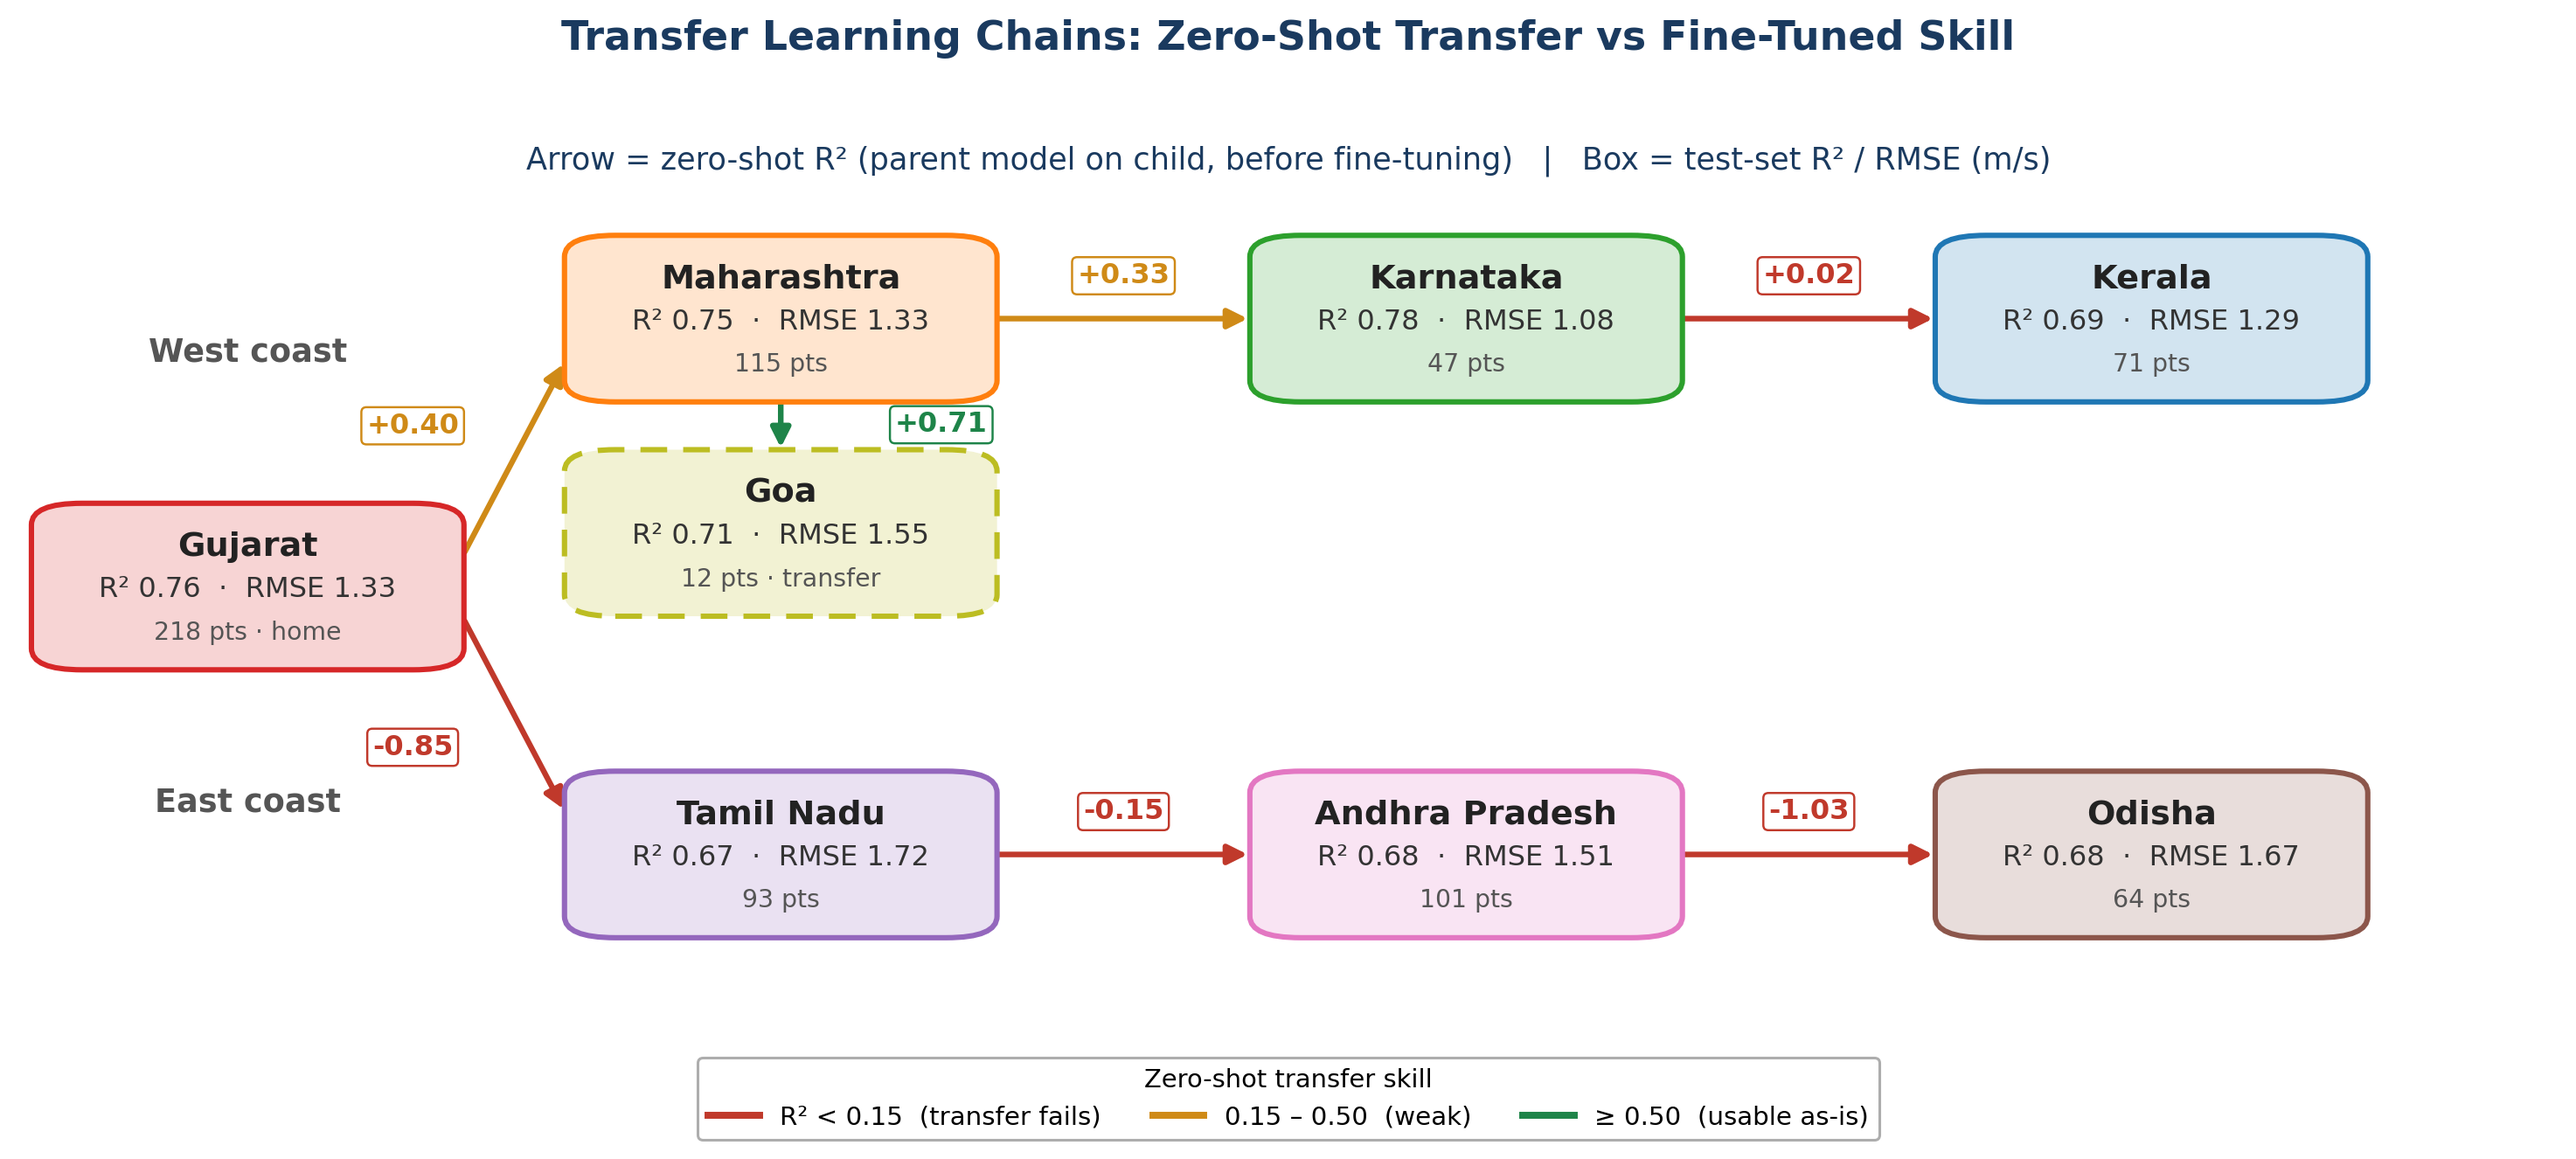
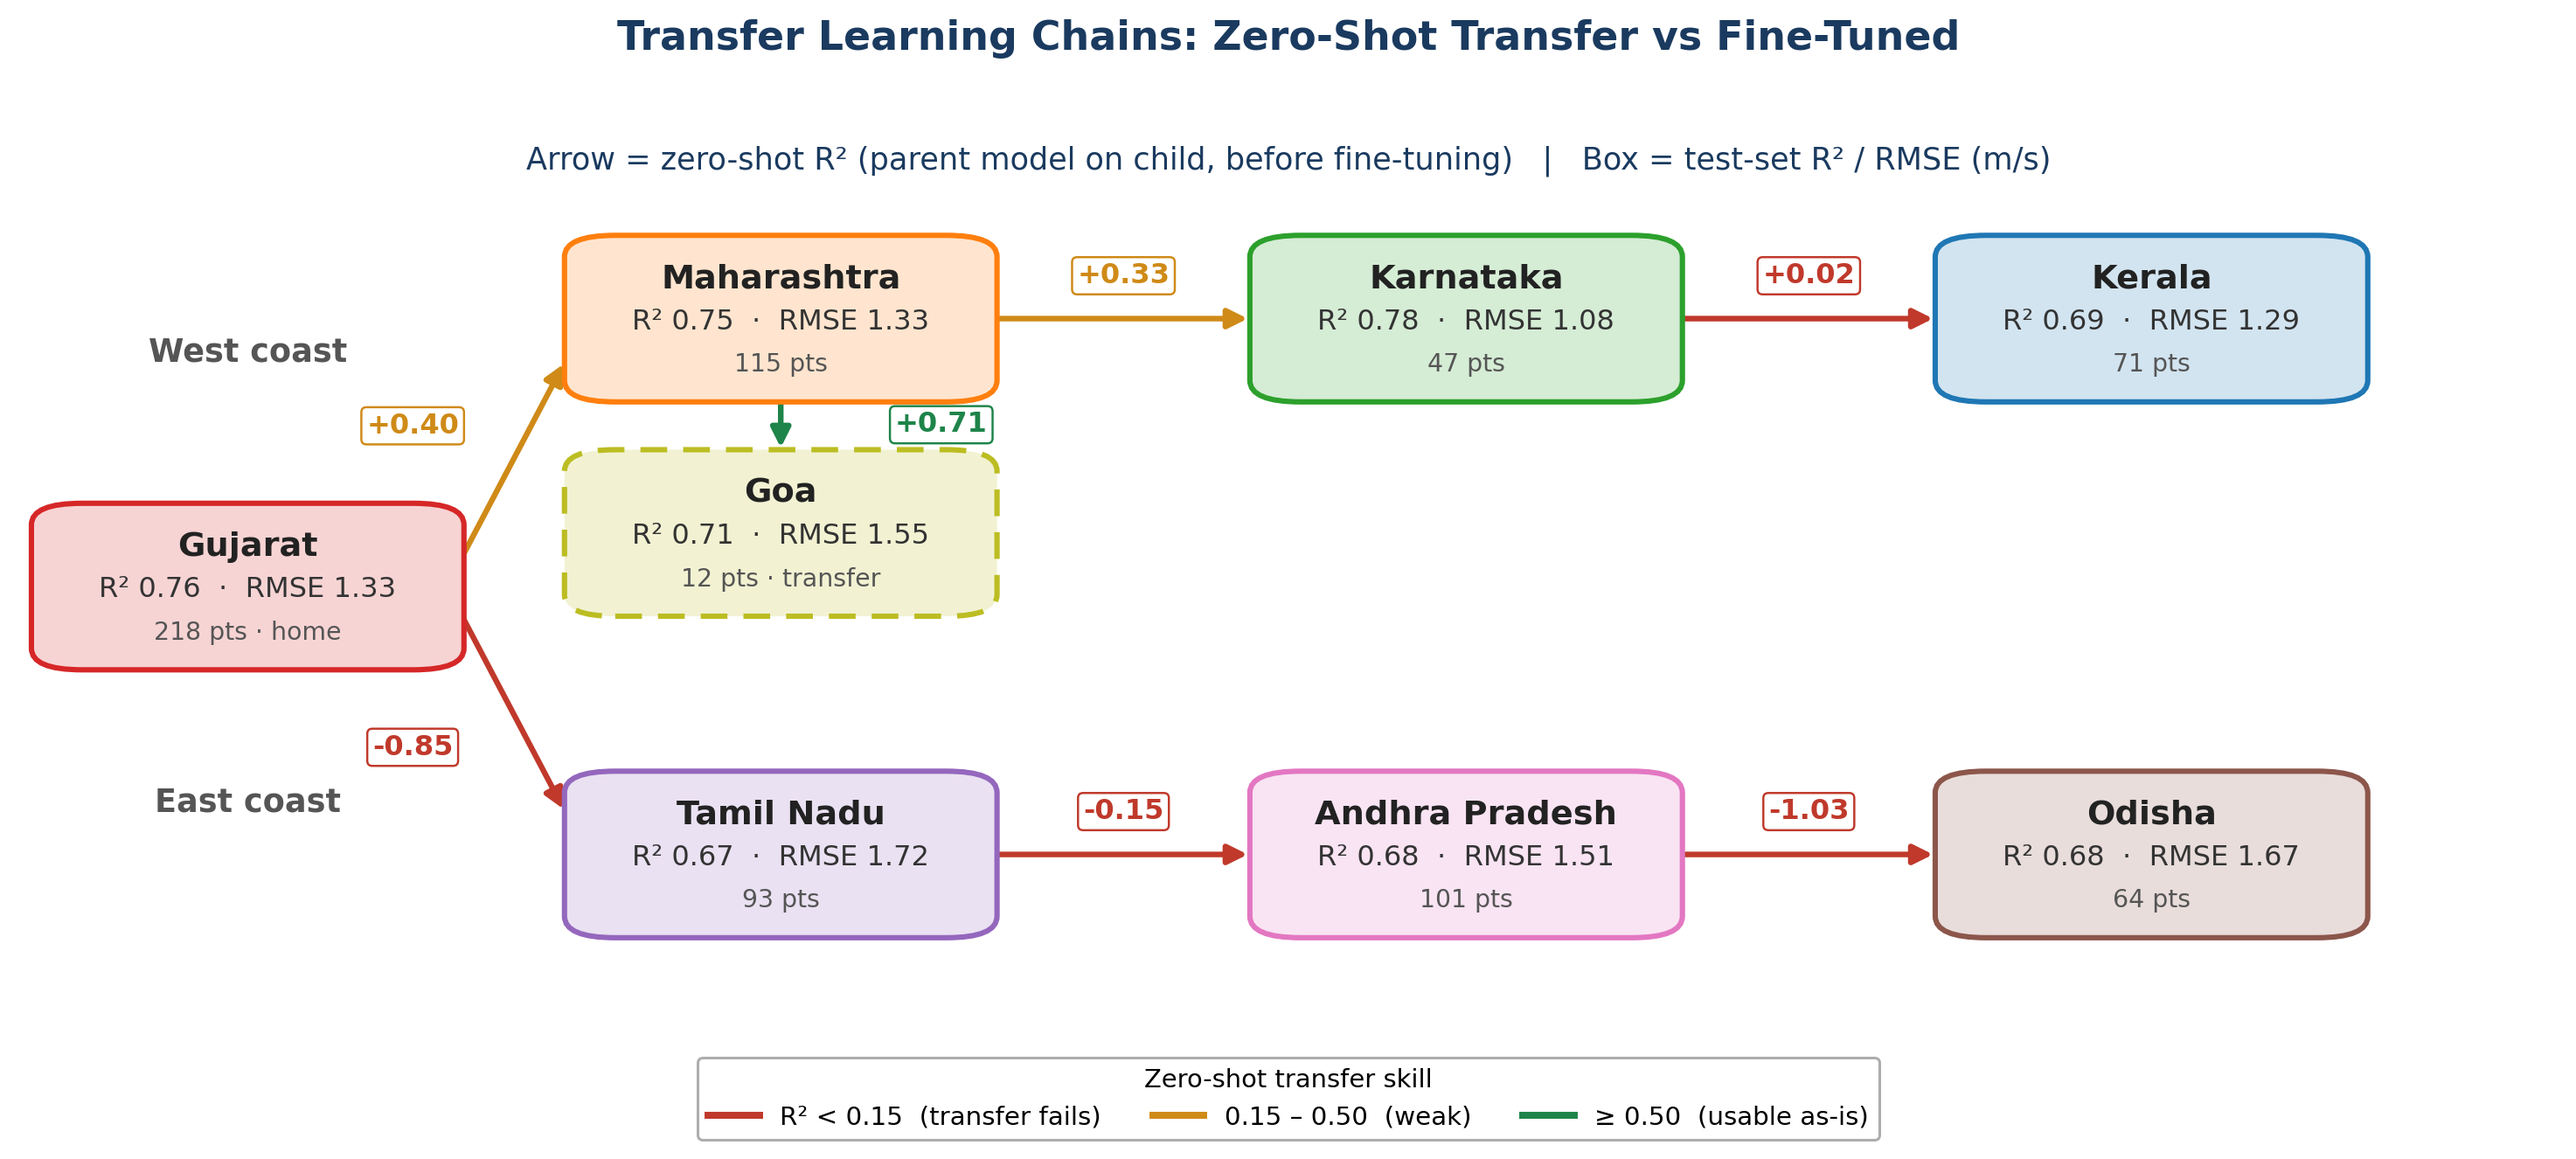
figures

Changed region(s): [[0.2185, 0.0, 0.7805, 0.0618]]

diff --git a/scripts/ml/generate_fig3_transfer_chains.py b/scripts/ml/generate_fig3_transfer_chains.py
@@ -51,7 +51,7 @@ arrow((65.5,25),(75.5,25),-1.03,70.5,29)        # AP->OD
 ax.text(9,71,"West coast",ha="center",fontsize=12,fontweight="bold",color="#555")
 ax.text(9,29,"East coast",ha="center",fontsize=12,fontweight="bold",color="#555")
 
-fig.suptitle("Transfer Learning Chains: Zero-Shot Transfer vs Fine-Tuned Skill",
+fig.suptitle("Transfer Learning Chains: Zero-Shot Transfer vs Fine-Tuned",
     fontsize=15,fontweight="bold",color=TITLE,y=0.975)
 ax.set_title("Arrow = zero-shot R\u00b2 (parent model on child, before fine-tuning)   |   "
     "Box = test-set R\u00b2 / RMSE (m/s)",fontsize=11.5,color=TITLE,pad=12)
